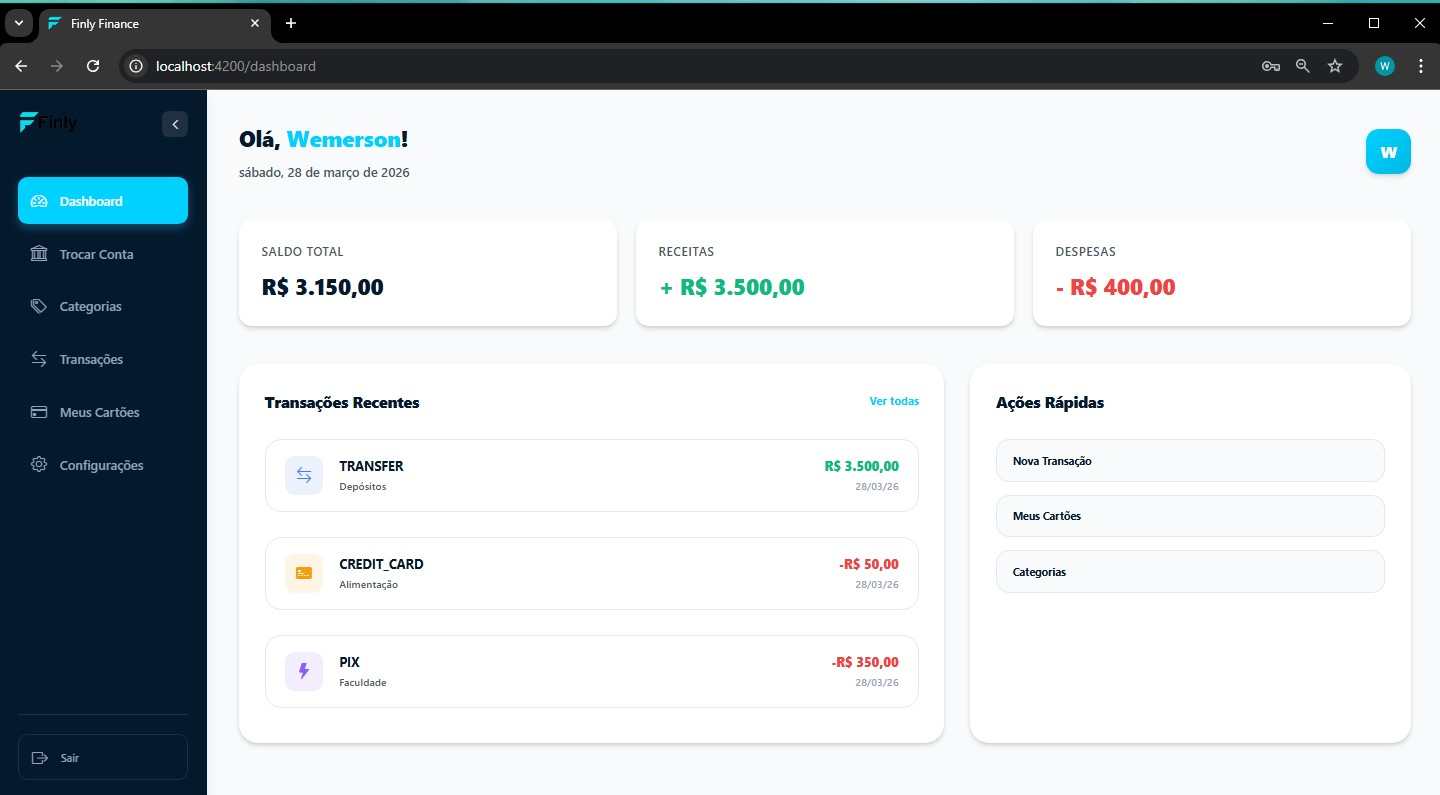
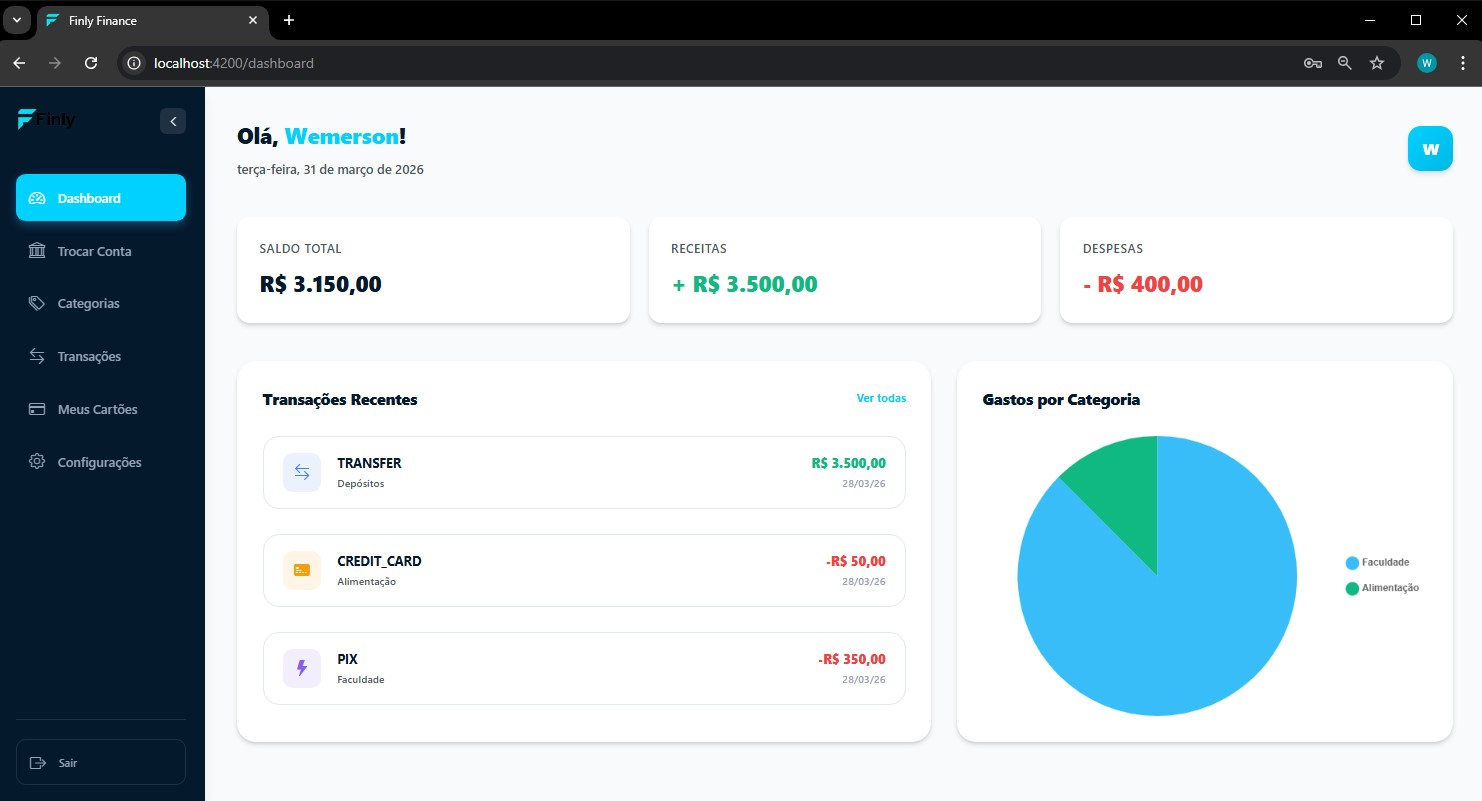
feat: adds pie chart to dashboard

diff --git a/src/app/screens/dashboard/dashboard.component.ts b/src/app/screens/dashboard/dashboard.component.ts
@@ -1,16 +1,19 @@
 import { Component, OnInit, Inject, PLATFORM_ID, ChangeDetectorRef } from '@angular/core';
 import { CommonModule, CurrencyPipe, DatePipe, isPlatformBrowser } from '@angular/common';
 import { RouterModule, Router } from '@angular/router';
+import { BaseChartDirective } from 'ng2-charts';
+import { ChartConfiguration, ChartData, ChartType } from 'chart.js';
 import { AuthService } from '../../core/services/auth.service';
 import { AccountService } from '../../core/services/account.service';
 import { UserService, UserOutput } from '../../core/services/user.service';
 import { DashboardService } from '../../core/services/dashboard.service';
+import { CategoryService, CategorySummaryOutput } from '../../core/services/category.service';
 import { TransactionItem, MonthlyTransactionSummaryOutput } from '../../core/models/transaction.model';
 
 @Component({
   selector: 'app-dashboard',
   standalone: true,
-  imports: [CommonModule, RouterModule],
+  imports: [CommonModule, RouterModule, BaseChartDirective],
   providers: [CurrencyPipe, DatePipe],
   templateUrl: './dashboard.component.html',
   styleUrl: './dashboard.component.scss'
@@ -29,11 +32,57 @@ export class DashboardComponent implements OnInit {
     expenses: 0
   };
 
+  // Chart configuration
+  public pieChartOptions: ChartConfiguration['options'] = {
+    responsive: true,
+    maintainAspectRatio: false,
+    plugins: {
+      legend: {
+        display: true,
+        position: 'right',
+        labels: {
+          usePointStyle: true,
+          pointStyle: 'circle',
+          padding: 20,
+          font: {
+            size: 12,
+            weight: 'bold'
+          }
+        }
+      },
+      tooltip: {
+        callbacks: {
+          label: (context) => {
+            const label = context.label || '';
+            const value = context.raw as number;
+            const total = (context.chart.data.datasets[0].data as number[]).reduce((a, b) => a + b, 0);
+            const percentage = ((value / total) * 100).toFixed(1);
+            return `${label}: R$ ${value.toLocaleString('pt-BR', { minimumFractionDigits: 2 })} (${percentage}%)`;
+          }
+        }
+      }
+    }
+  };
+  public pieChartData: ChartData<'pie', number[], string | string[]> = {
+    labels: [],
+    datasets: [{
+      data: [],
+      backgroundColor: [
+        '#38bdf8', '#10b981', '#f59e0b', '#ef4444', '#8b5cf6', 
+        '#ec4899', '#6366f1', '#14b8a6', '#f97316', '#06b6d4'
+      ],
+      hoverOffset: 4,
+      borderWidth: 0
+    }]
+  };
+  public pieChartType: ChartType = 'pie';
+
   constructor(
     private authService: AuthService,
     private accountService: AccountService,
     private userService: UserService,
     private dashboardService: DashboardService,
+    private categoryService: CategoryService,
     private router: Router,
     private cdr: ChangeDetectorRef,
     @Inject(PLATFORM_ID) private platformId: Object
@@ -87,11 +136,39 @@ export class DashboardComponent implements OnInit {
         this.summary.income = data.totalCredits;
         this.summary.expenses = data.totalDebits;
         this.recentTransactions = data.transactions.slice(0, 5);
+        this.loadCategoryChart(accountId);
+      },
+      error: (err) => {
+        this.error = 'Erro ao carregar dados do dashboard.';
+        this.loading = false;
+        this.cdr.detectChanges();
+      }
+    });
+  }
+
+  loadCategoryChart(accountId: string): void {
+    this.categoryService.getCategories(accountId).subscribe({
+      next: (data: CategorySummaryOutput) => {
+        // Filtrar categorias com gastos > 0 e remover 'Depósitos'
+        const expenseCategories = data.categories
+          .filter(c => c.name !== 'Depósitos' && c.totalSpent > 0)
+          .sort((a, b) => b.totalSpent - a.totalSpent);
+
+        if (expenseCategories.length > 0) {
+          this.pieChartData.labels = expenseCategories.map(c => c.name);
+          this.pieChartData.datasets[0].data = expenseCategories.map(c => c.totalSpent);
+        } else {
+          // Fallback se não houver gastos
+          this.pieChartData.labels = ['Sem gastos'];
+          this.pieChartData.datasets[0].data = [1];
+          this.pieChartData.datasets[0].backgroundColor = ['#e5e7eb'];
+        }
+
         this.loading = false;
         this.cdr.detectChanges();
       },
       error: (err) => {
-        this.error = 'Erro ao carregar dados do dashboard.';
+        console.error('Erro ao carregar resumo de categorias', err);
         this.loading = false;
         this.cdr.detectChanges();
       }

diff --git a/src/app/screens/dashboard/dashboard.component.scss b/src/app/screens/dashboard/dashboard.component.scss
@@ -35,10 +35,10 @@
     margin-bottom: 1rem;
     animation: skeletonLoading 1.5s infinite ease-in-out;
   }
-  .skeleton-btn {
-    height: 3.5rem;
+  .skeleton-chart {
+    height: 300px;
     border-radius: 1rem;
-    margin-bottom: 0.75rem;
+    background-color: #f1f5f9;
     animation: skeletonLoading 1.5s infinite ease-in-out;
   }
 }
@@ -404,45 +404,28 @@
   }
 }
 
-/* Quick Actions */
-.action-buttons {
+/* Category Spending Chart */
+.category-chart-section {
   display: flex;
   flex-direction: column;
-  gap: 1rem;
+  height: 100%;
 
-  .action-btn {
-    padding: 1rem 1.25rem;
-    background-color: #f8fafc;
-    border: 1px solid var(--border-color);
-    border-radius: 1rem;
-    color: var(--secondary-color);
-    font-weight: 700;
-    cursor: pointer;
-    transition: all var(--transition-fast);
-    text-align: left;
+  .chart-container {
+    position: relative;
+    height: 350px;
+    width: 100%;
     display: flex;
-    justify-content: space-between;
     align-items: center;
-
-    &::after {
-      content: '→';
-      opacity: 0;
-      transform: translateX(-10px);
-      transition: all var(--transition-fast);
-    }
-
-    &:hover {
-      background-color: var(--primary-color);
-      color: #ffffff;
-      border-color: var(--primary-color);
-      box-shadow: 0 4px 12px rgba(56, 189, 248, 0.2);
-
-      &::after {
-        opacity: 1;
-        transform: translateX(0);
-      }
-    }
+    justify-content: center;
   }
+}
+
+.no-data {
+  text-align: center;
+  padding: 2rem;
+  color: var(--text-muted);
+  font-weight: 500;
+  font-style: italic;
 }
 
 /* Utils */

diff --git a/src/app/screens/dashboard/dashboard.component.html b/src/app/screens/dashboard/dashboard.component.html
@@ -84,9 +84,9 @@
           <div class="skeleton-header-line"></div>
           <div class="skeleton-item" *ngFor="let i of [1,2,3,4,5]"></div>
         </section>
-        <section class="quick-actions skeleton-section">
+        <section class="category-chart-section skeleton-section">
           <div class="skeleton-header-line"></div>
-          <div class="skeleton-btn" *ngFor="let i of [1,2,3]"></div>
+          <div class="skeleton-chart"></div>
         </section>
       </div>
     </ng-container>
@@ -145,15 +145,17 @@
           </div>
         </section>
 
-        <!-- Quick Actions / Mini Reports -->
-        <section class="quick-actions">
+        <!-- Category Spending Chart -->
+        <section class="category-chart-section">
           <div class="section-header">
-            <h3>Ações Rápidas</h3>
+            <h3>Gastos por Categoria</h3>
           </div>
-          <div class="action-buttons">
-            <button class="action-btn" routerLink="/transactions">Nova Transação</button>
-            <button class="action-btn">Meus Cartões</button>
-            <button class="action-btn" routerLink="/categories">Categorias</button>
+          <div class="chart-container">
+            <canvas baseChart
+              [data]="pieChartData"
+              [options]="pieChartOptions"
+              [type]="pieChartType">
+            </canvas>
           </div>
         </section>
       </div>

diff --git a/src/app/app.config.ts b/src/app/app.config.ts
@@ -3,6 +3,7 @@ import { provideRouter } from '@angular/router';
 import { provideHttpClient, withFetch } from '@angular/common/http';
 import { registerLocaleData } from '@angular/common';
 import localePt from '@angular/common/locales/pt';
+import { provideCharts, withDefaultRegisterables } from 'ng2-charts';
 
 import { routes } from './app.routes';
 import { provideClientHydration, withEventReplay } from '@angular/platform-browser';
@@ -15,6 +16,7 @@ export const appConfig: ApplicationConfig = {
     provideBrowserGlobalErrorListeners(),
     provideRouter(routes), 
     provideClientHydration(withEventReplay()),
-    provideHttpClient(withFetch())
+    provideHttpClient(withFetch()),
+    provideCharts(withDefaultRegisterables())
   ]
 };
